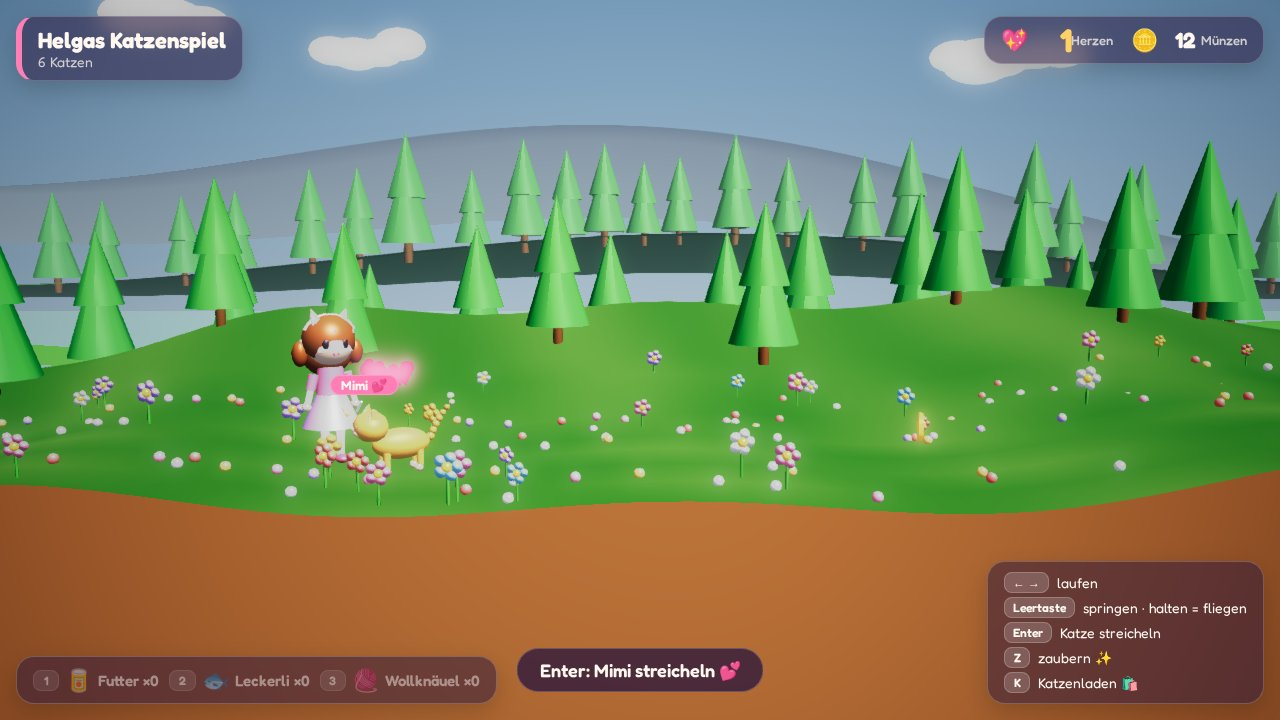
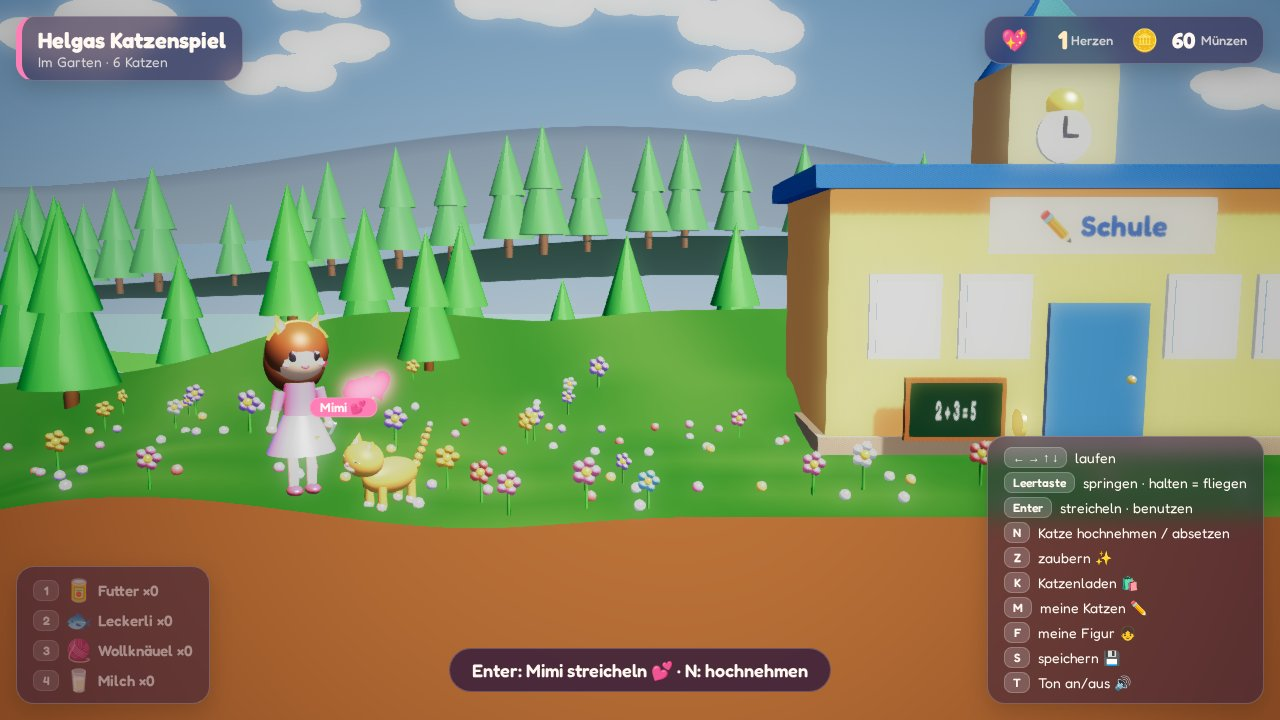
docs: describe all features, tick off the vision and refresh the screenshots

diff --git a/README.md b/README.md
@@ -13,12 +13,12 @@
 [![Playwright](https://img.shields.io/github/package-json/dependency-version/marcelpetrick/HelgasKatzenspiel/dev/@playwright/test?label=Playwright&logo=playwright&color=2ead33)](https://playwright.dev/)
 [![Node.js 24](https://img.shields.io/badge/Node.js-24-5fa04e.svg?logo=nodedotjs&logoColor=white)](https://nodejs.org/)
 
-A cute, colourful 3D browser game about a little girl and her many cats — pet them, feed them, throw
-them a yarn ball, fly and cast sparkly spells, collect coins and go shopping. No weapons, no
-fighting: just hearts. The game speaks German.
+A cute, colourful 3D browser game about a little girl and her many cats. Pet them, feed them,
+carry them around and fly with them, go to school for coins, go shopping, dress up and decorate the
+house. No weapons, no fighting: just hearts. The game speaks German.
 
 _Ein niedliches, buntes Browserspiel: Ein Mädchen streichelt und versorgt ganz viele Katzen, zaubert,
-fliegt, sammelt Münzen und kauft im Katzenladen ein._
+fliegt, geht zur Schule, verdient Münzen, kauft im Katzenladen ein und schmückt ihr Haus._
 
 It is designed together with Helga, who decides what goes in; her wishes are collected in
 [`visions.md`](visions.md). The look follows [Allium Assault](https://github.com/marcelpetrick/AlliumAssault).
@@ -27,31 +27,53 @@ It is designed together with Helga, who decides what goes in; her wishes are col
 **Note: this project is generated with AI.**
 
 <p align="center">
-  <img src="docs/screenshots/play.jpg" alt="The girl petting the cat Mimi on a flowery meadow; pink hearts rise above them" width="100%">
+  <img src="docs/screenshots/play.jpg" alt="The girl petting the cat Mimi on a flowery meadow next to the school; pink hearts rise" width="100%">
 </p>
 
 <table>
   <tr>
-    <td width="50%"><img src="docs/screenshots/title.jpg" alt="Title screen: Helgas Katzenspiel, Los geht’s!"></td>
+    <td width="50%"><img src="docs/screenshots/house.jpg" alt="The kitchen: cats walking to the milk and food bowls"></td>
+    <td width="50%"><img src="docs/screenshots/school.jpg" alt="School: a sum with four answers to choose from"></td>
+  </tr>
+  <tr>
     <td width="50%"><img src="docs/screenshots/shop.jpg" alt="The cat shop with clothes in many colours"></td>
+    <td width="50%"><img src="docs/screenshots/title.jpg" alt="Title screen: Helgas Katzenspiel, Los geht’s!"></td>
   </tr>
 </table>
 
 ## How to play
 
-| Key      | Action                                                    |
-| -------- | --------------------------------------------------------- |
-| ← →      | walk                                                      |
-| Space    | jump — **hold** to fly, let go to float down              |
-| Enter    | pet the cat you are standing next to (hearts!)            |
-| Z (or Y) | cast a spell: sparkles, and every cat nearby is delighted |
-| K        | open / close the cat shop (clothes, food, treats, toys)   |
-| 1 / 2    | give the nearest cat food / a treat (bought in the shop)  |
-| 3        | throw the yarn ball — the cats chase it                   |
+| Key       | Action                                                                          |
+| --------- | ------------------------------------------------------------------------------- |
+| ← →       | walk                                                                            |
+| ↑ ↓       | walk further back / to the front; ↑ at a door goes in                           |
+| Space     | jump — **hold** to fly, let go to float down                                    |
+| Enter     | pet the cat next to you, or use what is in front of you (door, cupboard, bowls) |
+| N         | pick up the nearest cat, or put it down — you can fly with it                   |
+| Z (or Y)  | cast a spell: sparkles, and every cat nearby is delighted                       |
+| 1 / 2 / 4 | give the nearest cat food / a treat / milk (bought in the shop)                 |
+| 3         | throw the yarn ball — the cats chase it                                         |
+| K         | the cat shop: clothes, jewellery, nail polish, cat supplies, decorations, cats  |
+| M         | "Meine Katzen": name, colour (twelve, including green) and size of every cat    |
+| F         | "Meine Figur": skin, hair colour, hairstyle, eyes, mouth, freckles              |
+| S         | save the whole game in this browser (leaving the page saves too)                |
+| T         | sound on/off                                                                    |
+| Esc       | close a menu                                                                    |
 
-Every three hearts a happy cat drops a coin; walk over coins to collect them. Coins buy clothes for
-the girl and food, treats and a yarn ball for the cats. Clothes, supplies and coins are remembered
-in the browser (`localStorage`).
+**The world.** The garden has the school on the left, the girl's house in the middle and the cat
+shop on the right. Walk up into a door to go in. The house has a kitchen, a hall, a bathroom and a
+bedroom.
+
+**Coins.** Every three hearts a happy cat drops a coin; walk over coins to collect them. At school,
+five sums earn a German grade (1–6) and up to 30 coins. In the house, the fridge, the kitchen
+cupboard, the bath cabinet and the wardrobe hide coins that refill over time — faster the more the
+house is decorated. Cats that eat from the kitchen bowls leave a coin in the empty bowl.
+
+**Cats.** Fed cats grow rounder; chasing the yarn ball slims them down again. A new cat costs 100
+coins. With four or more cats, happy grown-ups have kittens, which grow up with every heart.
+
+**Sound.** Every action has a small synthesized sound — meows, purrs, coin plings, sparkles, a
+doorbell, a shop bell — made with the Web Audio API, no sound files.
 
 ## Setup
 
@@ -98,9 +120,11 @@ Single steps: `npm test`, `npm run coverage`, `npm run lint`, `npm run typecheck
 ## Project layout
 
 ```text
-src/core/    game rules without Babylon or the DOM (unit tested)
-src/render/  Babylon.js scene: landscape, house, girl, cats, effects
-src/ui/      HUD, title screen, shop, German texts, saving
+src/core/    game rules without Babylon or the DOM (unit tested): world layout, cats, shop,
+             school, the girl's look, saving
+src/render/  Babylon.js scene: garden, house interior, shop, school, girl, cats, effects
+src/ui/      HUD, title screen, menus (shop, cats, figure, school), German texts, storage
+src/audio.ts synthesized sound effects
 e2e/         Playwright browser tests
 tests/       Vitest unit tests
 ```

diff --git a/visions.md b/visions.md
@@ -24,35 +24,37 @@ Kampf, kein Krieg.
 10. Eine Katze hochnehmen und mit ihr zusammen fliegen.
 11. K: Kaufmenü öffnen. S: Spielstand speichern — beim nächsten Öffnen im selben Browser geht es genau
     dort weiter.
+12. Niedliche Geräusche für alle Aktionen: streicheln, Münzen, Herzen, zaubern, springen, fressen …
 
 ## Das Mädchen
 
-12. Genau ein Mädchen, das ganz viele Katzen hat.
-13. Figuren-Editor: Haarfarbe, Haarlänge, Gesicht, Hautfarbe, Oberteil, Unterteil.
-14. Haarschmuck: Katzenohren-Haarreif, Spangen, Schleifen; dazu Ohrringe und Nagellack.
+13. Genau ein Mädchen, das ganz viele Katzen hat.
+14. Figuren-Editor: Haarfarbe, Haarlänge, Gesicht, Hautfarbe, Oberteil, Unterteil.
+15. Haarschmuck: Katzenohren-Haarreif, Spangen, Schleifen; dazu Ohrringe und Nagellack.
 
 ## Welt
 
-15. Eine Landschaft mit Katzen und ein Haus im gleichen Stil. Ganz viele Blumen.
-16. Ins Haus hineingehen. Im Haus: Küche, Bad, Anziehschrank. Die Katzen brauchen viel Platz.
-17. Ein Kaufladen, in den das Mädchen hineingehen kann: Kleidung, Katzenfutter, Leckerlis, Spielzeug.
+16. Eine Landschaft mit Katzen und ein Haus im gleichen Stil. Ganz viele Blumen.
+17. Ins Haus hineingehen. Im Haus: Küche, Bad, Anziehschrank. Die Katzen brauchen viel Platz.
+18. Ein Kaufladen, in den das Mädchen hineingehen kann: Kleidung, Katzenfutter, Leckerlis, Spielzeug.
 
 ## Katzen
 
-18. Beim Streicheln erscheinen kleine Herzchen — die Katzen freuen sich.
-19. In der Küche Milch und Futter hinstellen, darüber freuen sich die Katzen auch.
-20. Aussehen der Katzen ist wählbar: Farbe (auch grün, blau, lila …), Größe (klein bis groß), Namen
+19. Beim Streicheln erscheinen kleine Herzchen — die Katzen freuen sich.
+20. In der Küche Milch und Futter hinstellen, darüber freuen sich die Katzen auch.
+21. Aussehen der Katzen ist wählbar: Farbe (auch grün, blau, lila …), Größe (klein bis groß), Namen
     selbst aussuchen.
-21. Katzen wachsen, wenn man gut auf sie aufpasst und sie füttert.
-22. Mit 100 € kann man eine neue Katze kaufen; viele Katzen bekommen Babys.
-23. Spielzeug für die Katzen, mit den Katzen spielen.
+22. Katzen wachsen, wenn man gut auf sie aufpasst und sie füttert.
+23. Mit 100 € kann man eine neue Katze kaufen; viele Katzen bekommen Babys.
+24. Spielzeug für die Katzen, mit den Katzen spielen.
+25. Wenn die Katzen viel fressen, werden sie runder und größer.
 
 ## Münzen & Schule
 
-24. In der Schule Rechenaufgaben lösen; gut rechnen und gute Noten bringen Münzen.
-25. Je mehr Herzen die Katzen machen, desto schneller findet man Münzen.
-26. Münzen tauchen auf, wenn sich Katzen freuen — auf dem Küchentisch, in Schüsseln, im Bad, im Anziehschrank.
-27. Mit Münzen kauft man Futter, Trinken, Spielzeug, Kleidung und Deko fürs Haus.
+26. In der Schule Rechenaufgaben lösen; gut rechnen und gute Noten bringen Münzen.
+27. Je mehr Herzen die Katzen machen, desto schneller findet man Münzen.
+28. Münzen tauchen auf, wenn sich Katzen freuen — auf dem Küchentisch, in Schüsseln, im Bad, im Anziehschrank.
+29. Mit Münzen kauft man Futter, Trinken, Spielzeug, Kleidung und Deko fürs Haus.
 
 ## Vorerst nicht
 
@@ -69,17 +71,21 @@ Kampf, kein Krieg.
 
 - [x] MVP: Landschaft, Haus, Mädchen, Katzen; laufen, springen, fliegen, streicheln, zaubern; Münzen.
 - [x] Mehr Blumen.
-- [x] Kaufmenü (K): Kleidung, Futter (1), Leckerli (2), Wollknäuel (3).
-- [ ] Pipeline, Linting, README.
-- [ ] Speichern (S) und Laden des ganzen Spielstands.
-- [ ] Nach hinten/vorne laufen.
-- [ ] Katze hochnehmen und mit ihr fliegen.
-- [ ] Katzen-Editor: Name, Farbe, Größe.
-- [ ] Kaufladen-Gebäude zum Hineingehen.
-- [ ] Ins Haus gehen: Küche (Milch und Futter hinstellen), Bad, Anziehschrank; Münzen in Schüsseln, auf
-      dem Tisch, im Schrank.
-- [ ] Figuren-Editor: Haarfarbe, Haarlänge, Gesicht, Hautfarbe, Haarschmuck, Ohrringe, Nagellack.
-- [ ] Schule: Rechenaufgaben, Noten, Münzen.
-- [ ] Katzen kaufen (100 Münzen), Katzen wachsen, Katzenbabys.
-- [ ] Deko fürs Haus.
-- [ ] Später: Docker/ghcr.
+- [x] Kaufmenü (K): Kleidung, Futter (1), Leckerli (2), Wollknäuel (3), Milch zum Trinken (4).
+- [x] Pipeline (`localPipeline.sh`), Linting, Tests ≥ 95 %, E2E, GitHub-Actions-Workflow, README.
+- [x] Speichern (S) und Laden des ganzen Spielstands; beim Verlassen der Seite wird auch gespeichert.
+- [x] Nach hinten/vorne laufen (↑ ↓).
+- [x] Katze hochnehmen (N) und mit ihr fliegen.
+- [x] Katzen-Editor (M): Name, zwölf Farben (auch Grün, Blau, Lila), Größe von winzig bis riesig.
+- [x] Kaufladen-Gebäude zum Hineingehen.
+- [x] Ins Haus gehen: Küche (Milch und Futter in die Schüsseln), Flur, Bad, Schlafzimmer mit
+      Anziehschrank; Münzen in Schüsseln, auf dem Tisch, auf der Badewanne und in den Schränken.
+- [x] Figuren-Editor (F): Hautfarbe, Haarfarbe, Frisur (Haarlänge), Augen, Mund, Sommersprossen.
+- [x] Haarschmuck (Katzenohren, Schleifen, Spangen), Ohrringe und Nagellack im Laden.
+- [x] Schule: Rechenaufgaben in drei Stufen, Zeugnis mit Note 1–6, Münzen für gute Noten; danach
+      nach Hause gehen.
+- [x] Neue Katze für 100 Münzen; Katzenbabys, wenn viele Katzen glücklich sind; Babys wachsen.
+- [x] Katzen werden vom Fressen runder; mit dem Wollknäuel spielen macht sie wieder schlanker.
+- [x] Deko fürs Haus: Kratzbaum, Kissen, Blumentöpfe, Katzenbild, Herzteppich, Lichterkette.
+- [x] Niedliche Geräusche für alle Aktionen (T schaltet den Ton aus).
+- [ ] Später: Docker-Image und Veröffentlichung auf ghcr; Pushen nach GitHub.

diff --git a/AGENTS.md b/AGENTS.md
@@ -8,7 +8,8 @@
 - Helgas Katzenspiel ist ein Browserspiel für ein Kind, gebaut zusammen mit ihrem Papa.
 - **Mit den Nutzern wird Deutsch gesprochen**, einfach und kindgerecht. Code, Kommentare und
   Commit-Messages sind Englisch.
-- Die Spieloberfläche ist Deutsch; alle sichtbaren Texte stehen in `src/ui/text.ts`.
+- Die Spieloberfläche ist Deutsch (niedlich, kindgerecht); alle sichtbaren Texte stehen in `src/ui/text.ts`.
+- Jede neue Aktion bekommt ein Geräusch (`src/audio.ts`) und, wenn nötig, einen Hinweis im HUD.
 - Die Anforderungen stehen in [`visions.md`](visions.md). Neue Wünsche dort eintragen, bevor sie
   umgesetzt werden.
 - Freundlich, niedlich, bunt: keine Waffen, kein Blut, kein Kampf, kein Krieg. Erstmal nur Katzen
@@ -30,10 +31,15 @@ node scripts/screenshot.mjs [url]  # README-Screenshots neu aufnehmen
 
 ## Aufbau
 
-- `src/core/` — Spielregeln ohne Babylon und DOM (Laufen, Springen, Fliegen, Streicheln, Zaubern,
-  Münzen, Katzen-Verhalten). Hier gehört jede Regel hin, und hier wird sie unit-getestet.
-- `src/render/` — Babylon-Szene: Landschaft, Haus, Mädchen, Katzen, Effekte, Kamera.
-- `src/ui/` — DOM-Overlay (HUD, Startbildschirm), Texte, CSS.
+- `src/core/` — Spielregeln ohne Babylon und DOM, alle unit-getestet:
+  - `world.ts` Weltaufbau (Garten, Haus-Inneres, Gebäude, Türen, Schränke),
+  - `game.ts` Mädchen, Katzen, Münzen, Füttern, Tragen, Babys,
+  - `shop.ts` Katalog und Kleiderschrank, `look.ts` Aussehen des Mädchens,
+  - `cats.ts` Katzenfarben und -namen, `school.ts` Rechenaufgaben und Noten, `save.ts` Speichern.
+- `src/render/` — Babylon-Szene: Landschaft, Haus, Hausinneres, Laden, Schule, Mädchen, Katzen, Effekte.
+- `src/ui/` — DOM-Overlay (HUD, Startbildschirm, Menüs für Laden, Katzen, Figur, Schule), Texte,
+  CSS, `localStorage`.
+- `src/audio.ts` — niedliche Geräusche, synthetisch mit Web Audio.
 - `src/app.ts` — Tastatur, Spielschleife, verbindet alles.
 - `tests/` — Vitest-Tests für `src/core`.
 - `e2e/` — Playwright-Tests im echten Browser (Hook: `window.__katzen`).
